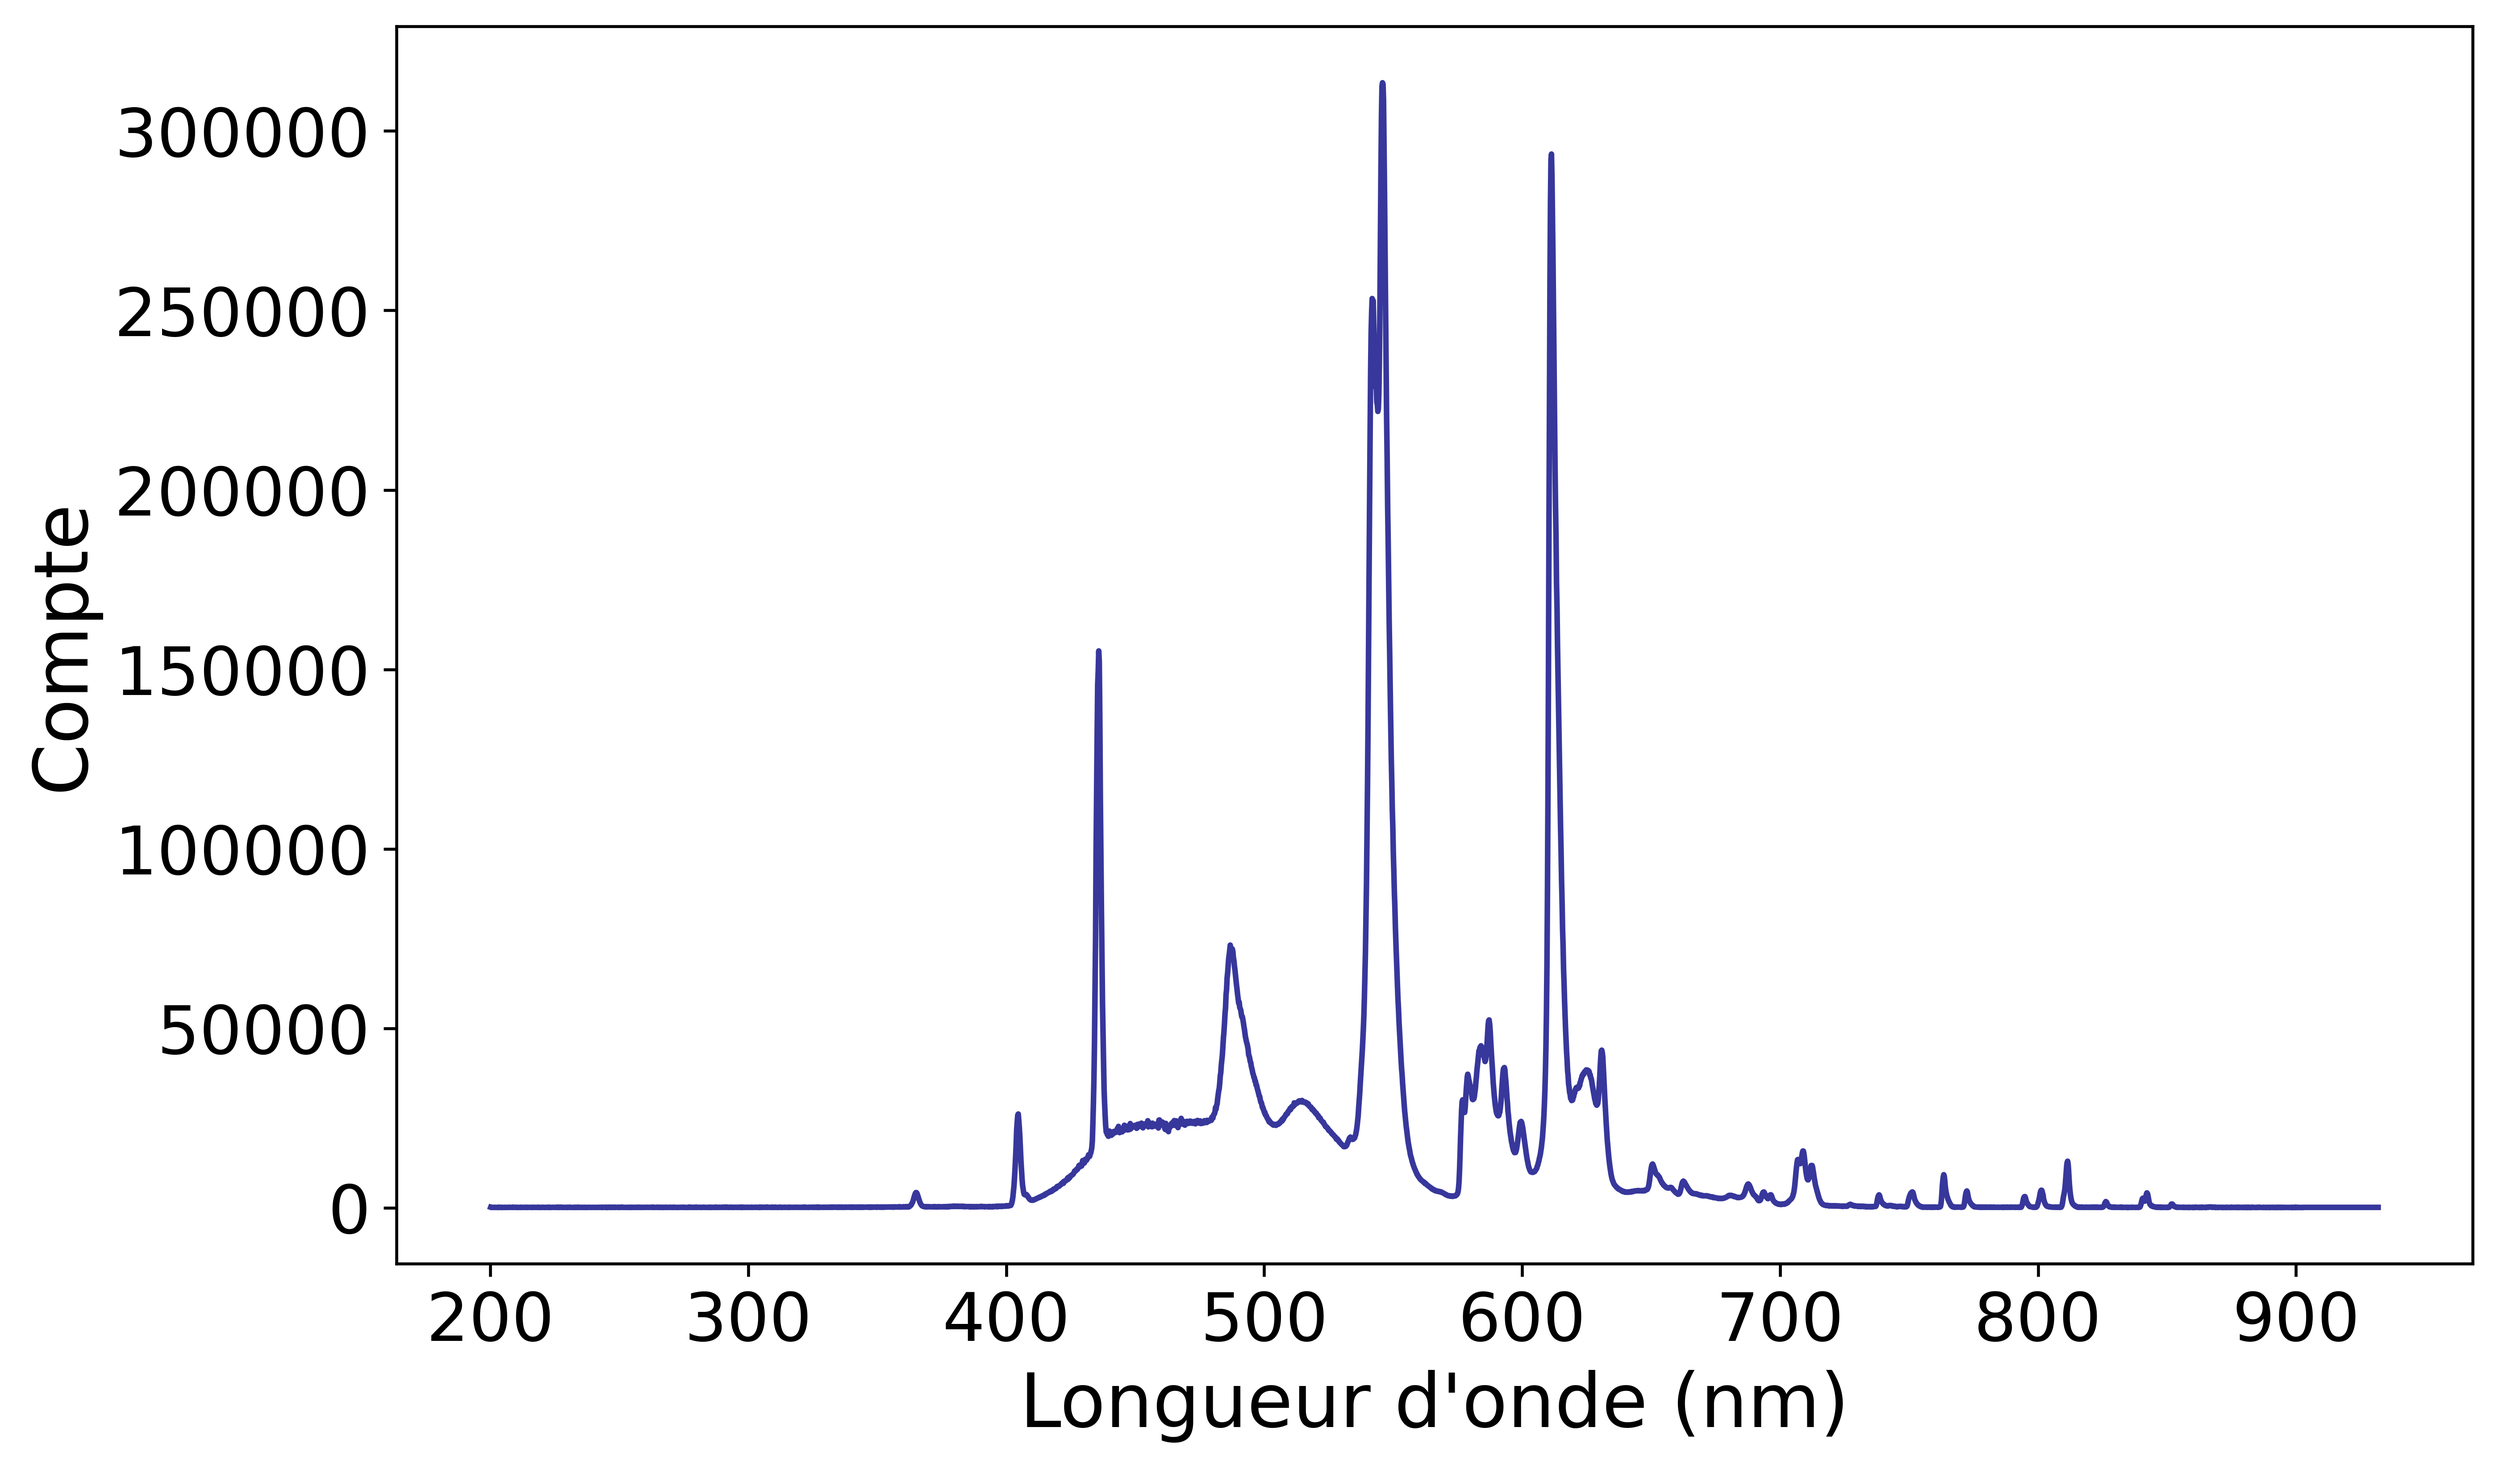
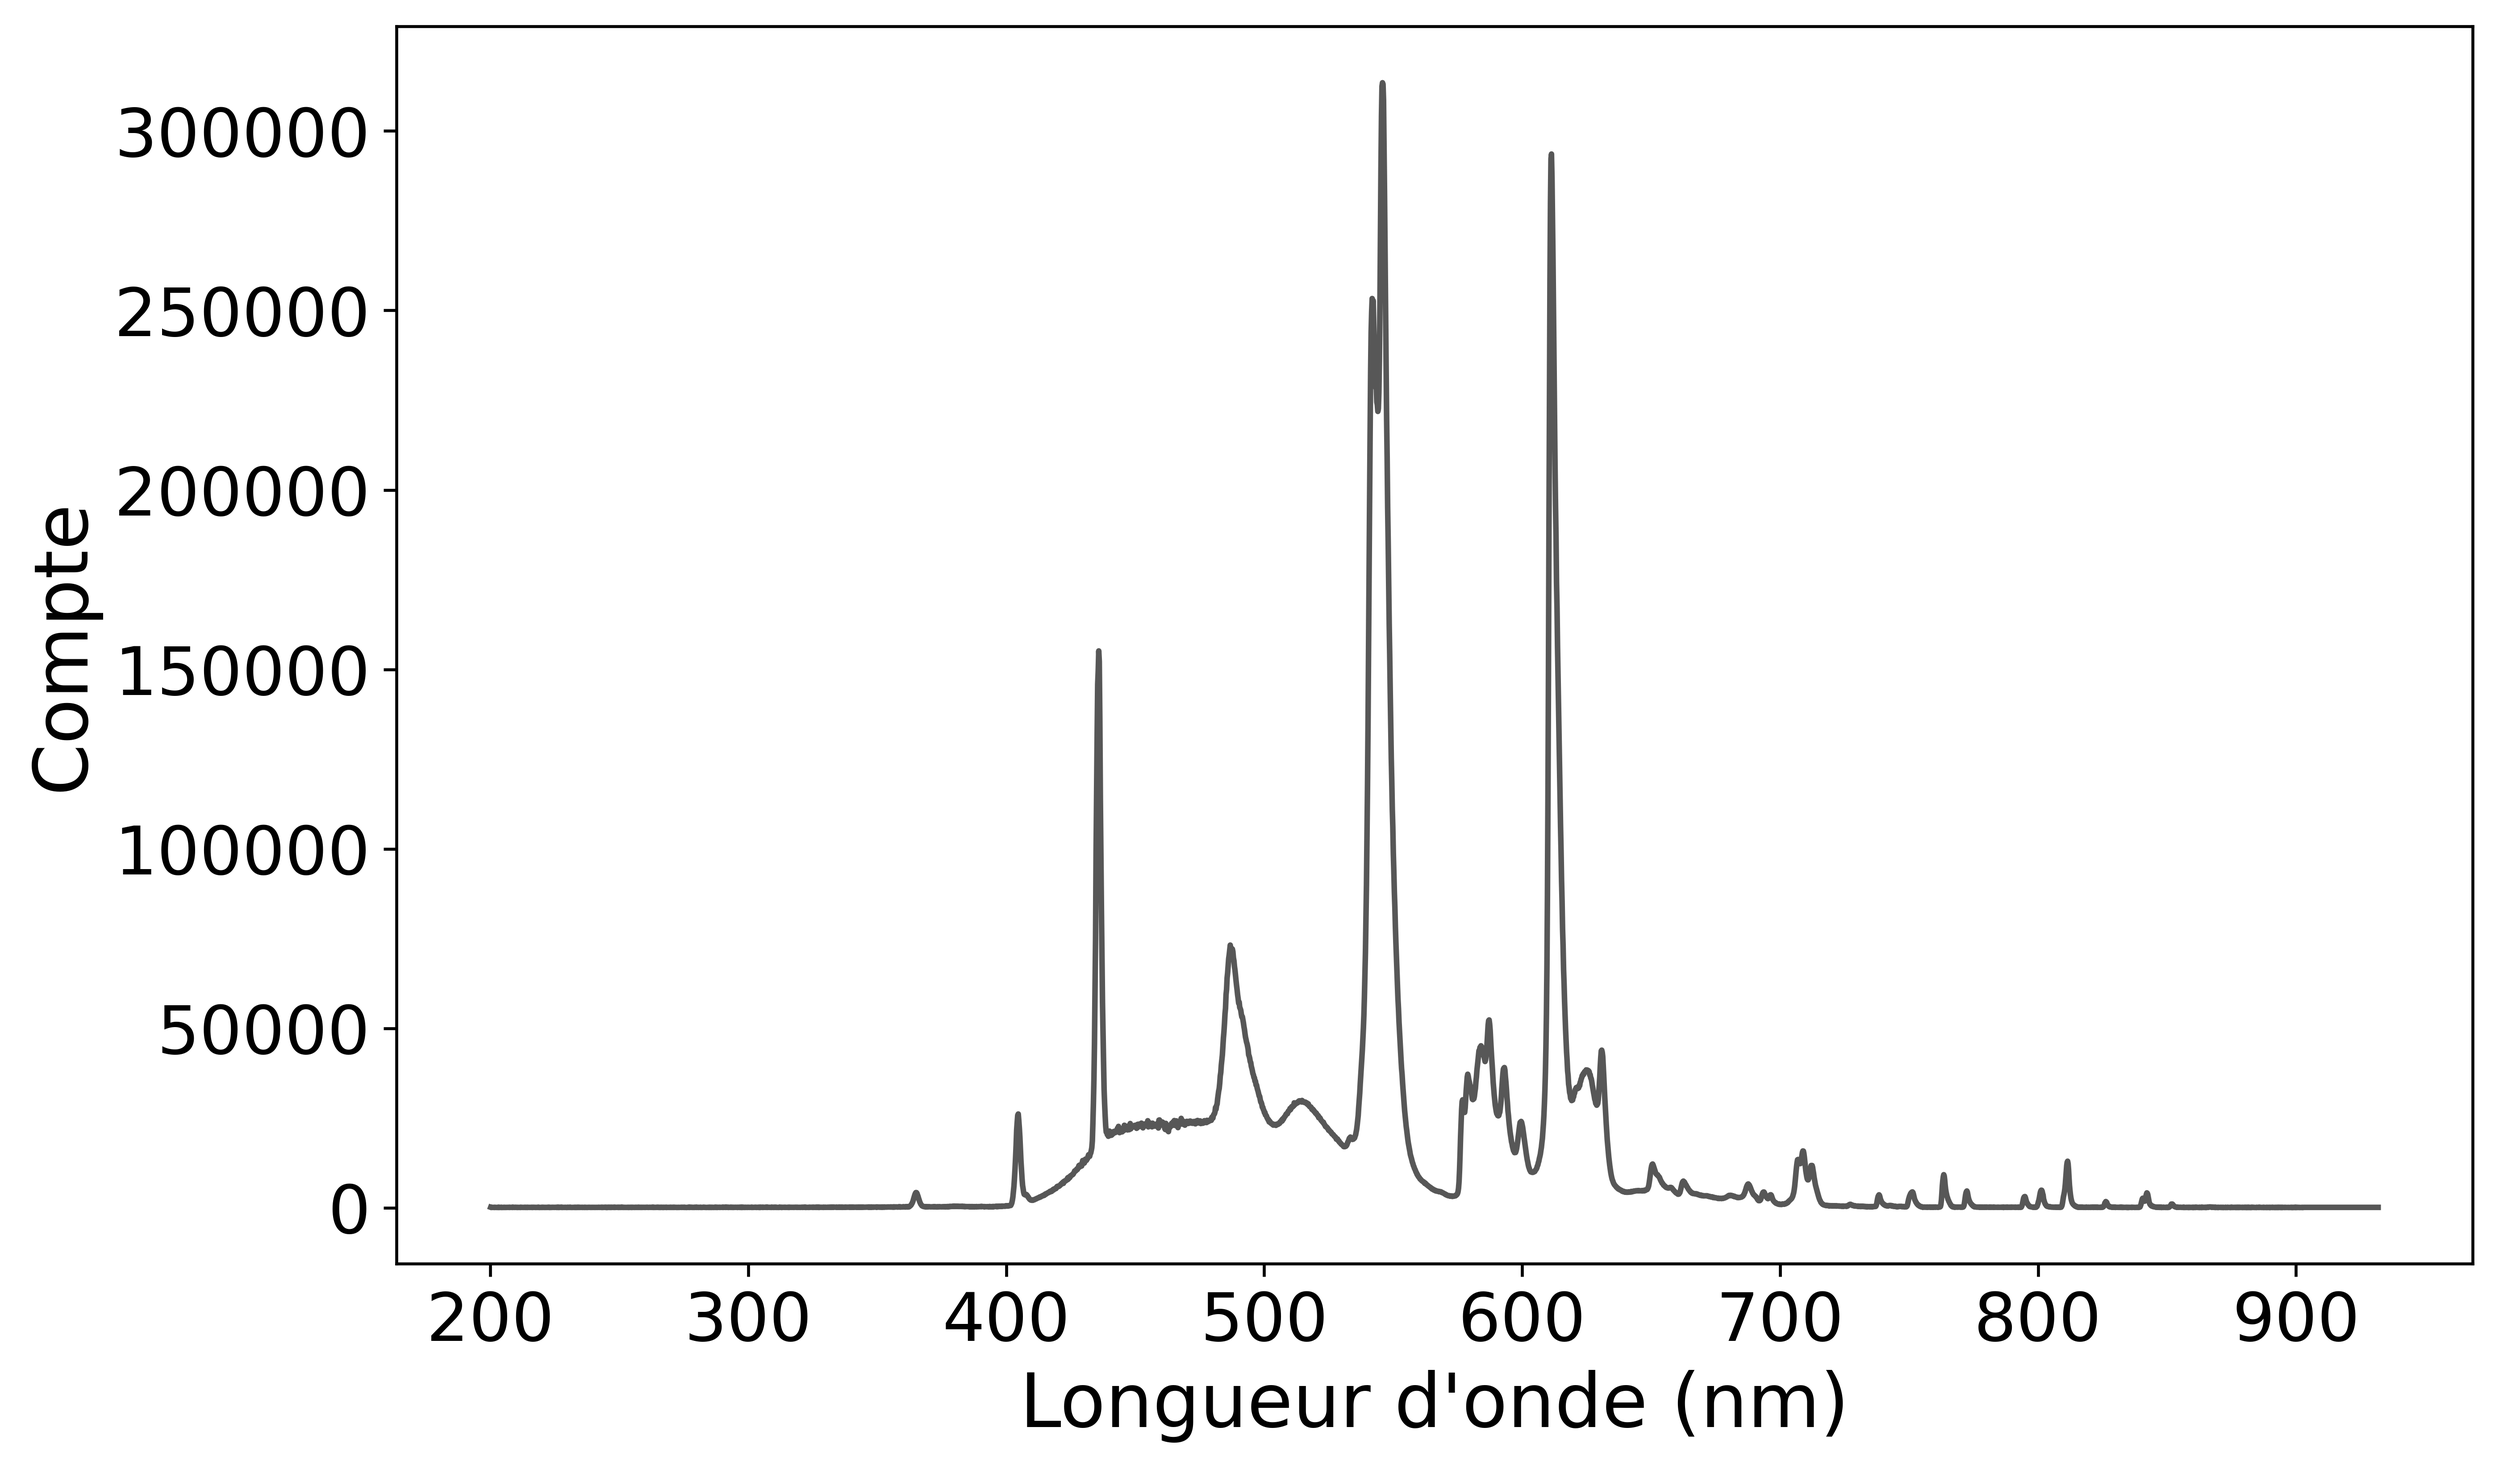
modifs couleurs

diff --git a/Projet_1/intensité_x_distance_r2.py b/Projet_1/intensité_x_distance_r2.py
@@ -1,0 +1,79 @@
+import numpy as np
+import matplotlib.pyplot as plt
+import os
+import pandas as pd
+from scipy.optimize import curve_fit
+
+#lampe 1 : MN
+#lampe 2 : MEN
+#lampe 3 : AC
+#lampe 4 : AT
+
+dossier_script = os.path.dirname(os.path.abspath(__file__))
+fichier_csv = os.path.join(dossier_script, "Projet 1.xlsx")
+
+spectre = pd.read_excel(fichier_csv, sheet_name="Obj2", skiprows=1)
+
+# Conversion en mètres pour que a / x**2 soit dans des ordres de grandeur cohérents
+x = spectre["Distance (cm)"].to_numpy() / 100
+
+y1 = spectre["AT"].to_numpy()
+y2 = spectre["AC"].to_numpy()
+y3 = spectre["MEN"].to_numpy()
+y4 = spectre["MN"].to_numpy()
+
+# Exclure le premier point x=0 (division par zéro dans le modèle)
+masque = x > 0
+x = x[masque]
+y1 = y1[masque]
+y2 = y2[masque]
+y3 = y3[masque]
+y4 = y4[masque]
+
+def modele(x, a):
+    return a / x**2
+
+def p0_initial(x, y):
+    a0 = y[0] * x[0]**2
+    return [a0]
+
+def r2(y, y_pred):
+    ss_res = np.sum((y - y_pred) ** 2)
+    ss_tot = np.sum((y - np.mean(y)) ** 2)
+    return 1 - ss_res / ss_tot
+
+x_fit = np.linspace(x.min(), x.max(), 300)
+
+params1, _ = curve_fit(modele, x, y1, p0=p0_initial(x, y1), maxfev=5000)
+params2, _ = curve_fit(modele, x, y2, p0=p0_initial(x, y2), maxfev=5000)
+params3, _ = curve_fit(modele, x, y3, p0=p0_initial(x, y3), maxfev=5000)
+params4, _ = curve_fit(modele, x, y4, p0=p0_initial(x, y4), maxfev=5000)
+
+y1_fit = modele(x_fit, *params1)
+y2_fit = modele(x_fit, *params2)
+y3_fit = modele(x_fit, *params3)
+y4_fit = modele(x_fit, *params4)
+
+print(f"AT  (4) : I(x) = {params1[0]:.4f} / x²  |  R² = {r2(y1, modele(x, *params1)):.4f}")
+print(f"AC  (3) : I(x) = {params2[0]:.4f} / x²  |  R² = {r2(y2, modele(x, *params2)):.4f}")
+print(f"MEN (2) : I(x) = {params3[0]:.4f} / x²  |  R² = {r2(y3, modele(x, *params3)):.4f}")
+print(f"MN  (1) : I(x) = {params4[0]:.4f} / x²  |  R² = {r2(y4, modele(x, *params4)):.4f}")
+
+plt.figure(figsize=(10, 6))
+plt.plot(x * 100, y4, label="Lampe 1", linestyle='', marker='d', markersize=4, color="#FFA500")
+plt.plot(x * 100, y3, label="Lampe 2", linestyle='', marker='^', markersize=4, color="#008000")
+plt.plot(x * 100, y2, label="Lampe 3", linestyle='', marker='s', markersize=4, color="#007980")
+plt.plot(x * 100, y1, label="Lampe 4", linestyle='', marker='o', markersize=4, color="#800080")
+
+plt.plot(x_fit * 100, y1_fit, linestyle='-', color="#800080", alpha=0.6, label="Lampe 4")
+plt.plot(x_fit * 100, y2_fit, linestyle='-', color="#007980", alpha=0.6, label="Lampe 3")
+plt.plot(x_fit * 100, y3_fit, linestyle='-', color="#008000", alpha=0.6, label="Lampe 2")
+plt.plot(x_fit * 100, y4_fit, linestyle='-', color="#FFA500", alpha=0.6, label="Lampe 1")
+
+plt.xlabel("Distance (cm)", fontsize=20)
+plt.ylabel("Intensité (lux)", fontsize=20)
+plt.xticks(fontsize=18)
+plt.yticks(fontsize=18)
+plt.legend(fontsize=20)
+#plt.savefig("intensite_x_distance.png", bbox_inches='tight', dpi=600)
+plt.show()

diff --git a/Projet_1/intensite_x_distance.py b/Projet_1/intensite_x_distance.py
@@ -10,6 +10,11 @@ from scipy.optimize import curve_fit
 #lampe 4 : AT
 
 
+lampe_1 ="#B0B0B0"
+lampe_2 = "#727272"
+lampe_3 = "#313131"
+lampe_4 = "#000000"
+
 dossier_script = os.path.dirname(os.path.abspath(__file__))
 fichier_csv = os.path.join(dossier_script, "Projet 1.xlsx")
 
@@ -47,24 +52,24 @@ y2_fit = modele(x_fit, *params2)
 y3_fit = modele(x_fit, *params3)
 y4_fit = modele(x_fit, *params4)
 
-print(f"AT  (4) : I(x) = {params1[0]:.4f} * exp({params1[1]:.4f} * x)  |  R² = {r2(y1, modele(x, *params1)):.4f}")
-print(f"AC  (3) : I(x) = {params2[0]:.4f} * exp({params2[1]:.4f} * x)  |  R² = {r2(y2, modele(x, *params2)):.4f}")
-print(f"MEN (2) : I(x) = {params3[0]:.4f} * exp({params3[1]:.4f} * x)  |  R² = {r2(y3, modele(x, *params3)):.4f}")
-print(f"MN  (1) : I(x) = {params4[0]:.4f} * exp({params4[1]:.4f} * x)  |  R² = {r2(y4, modele(x, *params4)):.4f}")
+print(f"AT  (4): I(x) = {params1[0]:.4f} * exp({params1[1]:.4f} * x)  |  R² = {r2(y1, modele(x, *params1)):.4f}")
+print(f"AC  (3): I(x) = {params2[0]:.4f} * exp({params2[1]:.4f} * x)  |  R² = {r2(y2, modele(x, *params2)):.4f}")
+print(f"MEN (2): I(x) = {params3[0]:.4f} * exp({params3[1]:.4f} * x)  |  R² = {r2(y3, modele(x, *params3)):.4f}")
+print(f"MN  (1): I(x) = {params4[0]:.4f} * exp({params4[1]:.4f} * x)  |  R² = {r2(y4, modele(x, *params4)):.4f}")
 
 plt.figure(figsize=(10, 6))
-plt.plot(x, y4, label="Lampe 1", linestyle='', marker='d', markersize=4, color="#FFA500")
-plt.plot(x, y3, label="Lampe 2", linestyle='', marker='^', markersize=4, color="#008000")
-plt.plot(x, y2, label="Lampe 3", linestyle='', marker='s', markersize=4, color="#007980")
-plt.plot(x, y1, label="Lampe 4", linestyle='', marker='o', markersize=4, color="#800080")
+plt.plot(x, y4, label="Lampe 1", linestyle='', marker='^', markersize=4, color=lampe_1)
+plt.plot(x, y3, label="Lampe 2", linestyle='', marker='^', markersize=4, color=lampe_2, markerfacecolor='none')
+plt.plot(x, y2, label="Lampe 3", linestyle='', marker='o', markersize=4, color=lampe_3)
+plt.plot(x, y1, label="Lampe 4", linestyle='', marker='o', markersize=4, color=lampe_4, markerfacecolor='none')
 
-plt.plot(x_fit, y1_fit, linestyle='-', color="#800080", alpha=0.6)
-plt.plot(x_fit, y2_fit, linestyle='-', color="#007980", alpha=0.6)
-plt.plot(x_fit, y3_fit, linestyle='-', color="#008000", alpha=0.6)
-plt.plot(x_fit, y4_fit, linestyle='-', color="#FFA500", alpha=0.6)
+plt.plot(x_fit, y4_fit, linestyle='-', color=lampe_1)
+plt.plot(x_fit, y3_fit, linestyle='-', color=lampe_2)
+plt.plot(x_fit, y2_fit, linestyle='-', color=lampe_3)  
+plt.plot(x_fit, y1_fit, linestyle='-', color=lampe_4)
 
 plt.xlabel("Distance (cm)", fontsize=20)
-plt.ylabel("Intensité (lux)", fontsize=20)
+plt.ylabel("Éclairement (lux)", fontsize=20)
 plt.xticks(fontsize=18)
 plt.yticks(fontsize=18)
 plt.legend(fontsize=20)

diff --git a/Projet_1/Comparaison_soleil_spectre.py b/Projet_1/Comparaison_soleil_spectre.py
@@ -5,37 +5,42 @@ import pandas as pd
 
 dossier_script = os.path.dirname(os.path.abspath(__file__))
 
-# --- Chargement du spectre solaire ---
+
+# charger spectre solaire
 fichier_xlsx = os.path.join(dossier_script, "Projet 1.xlsx")
 spectre_solaire = pd.read_excel(fichier_xlsx, sheet_name="Spectre", skiprows=0)
 x_soleil = spectre_solaire["Wavelength"].to_numpy()
 y_soleil = spectre_solaire["Spectral irradiance"].to_numpy()
 
-# --- Chargement du spectre de la lampe ---
+# charger spectre lampe
 fichier_csv = os.path.join(dossier_script, "spectre_at_bleu.csv")
 spectre = pd.read_csv(fichier_csv)
 x_lampe = spectre["lambda"].to_numpy()
 y_lampe = np.sum([spectre[str(i)].to_numpy() for i in range(1, 11)], axis=0)
 
-# --- Graphique ---
+# normalisation spectres
+y_soleil_norm = y_soleil / np.max(y_soleil)
+y_lampe_norm = y_lampe / np.max(y_lampe)
+
+# graphique
 fig, ax1 = plt.subplots(figsize=(10, 6))
 
-# Axe gauche : comptes (lampe)
-color_lampe = "#37379C"
-ax1.plot(x_lampe, y_lampe, color=color_lampe, label="Lampe (comptes)")
+# axe compte
+couleur_lampe = "#696969"
+ax1.plot(x_lampe, y_lampe_norm, color=couleur_lampe, label="Intensité de la lampe")
 ax1.set_xlabel("Longueur d'onde (nm)", fontsize=20)
-ax1.set_ylabel("Compte", fontsize=20, color=color_lampe)
-ax1.tick_params(axis='y', labelcolor=color_lampe, labelsize=18)
+ax1.set_ylabel("Intensité normalisée", fontsize=20, color=couleur_lampe)
+ax1.tick_params(axis='y', labelcolor=couleur_lampe, labelsize=18)
 ax1.tick_params(axis='x', labelsize=18)
 
-# Axe droit : irradiance (soleil)
-color_soleil = "#FFA500"
+# axe irradiance
+couleur_soleil = "#121212"
 ax2 = ax1.twinx()
-ax2.plot(x_soleil, y_soleil, color=color_soleil, label="Spectre solaire (irradiance)")
-ax2.set_ylabel("Irradiance (W/m²/nm)", fontsize=20, color=color_soleil)
-ax2.tick_params(axis='y', labelcolor=color_soleil, labelsize=18)
+ax2.plot(x_soleil, y_soleil_norm, color=couleur_soleil, label="Irradiance solaire")
+ax2.set_ylabel("Irradiance normalisée", fontsize=20, color=couleur_soleil)
+ax2.tick_params(axis='y', labelcolor=couleur_soleil, labelsize=18)
 
-# Légende combinée
+# légende
 lines1, labels1 = ax1.get_legend_handles_labels()
 lines2, labels2 = ax2.get_legend_handles_labels()
 ax1.legend(lines1 + lines2, labels1 + labels2, fontsize=14)

diff --git a/Projet_1/comparaison_spectres.py b/Projet_1/comparaison_spectres.py
@@ -11,6 +11,10 @@ import pandas as pd
 #aller chercher fichier
 dossier_script = os.path.dirname(os.path.abspath(__file__))
 
+lampe_1 ="#B0B0B0"
+lampe_2 = "#575757"
+lampe_3 = "#3E3E3E"
+lampe_4 = "#000000"
 
 #spectre 1 lampe alex bleu
 fichier_csv_atbleu = os.path.join(dossier_script, "spectre_at_bleu.csv")
@@ -125,16 +129,16 @@ y_ac = np.sum([y1_ac, y2_ac, y3_ac, y4_ac, y5_ac, y6_ac, y7_ac, y8_ac, y9_ac, y1
 x = spectre_men["lambda"].to_numpy()
 
 plt.figure(figsize=(10, 6))
-#plt.plot(x, y_mn, label="Lampe 1", linestyle='-', color="#609160")
-#plt.plot(x, y_men, label="Lampe 2", linestyle='-', color='#FFA500')
-#plt.plot(x, y_ac, label="Lampe 3", linestyle='-', color='#800080')
-plt.plot(x, y_atbleu, label="Lampe 4.1", linestyle='-', color="#33333F")
-plt.plot(x, y_atblanc, label="Lampe 4.2", linestyle='-', color="#09DEE9")
-plt.plot(x, y_atrouge, label="Lampe 4.3", linestyle='-', color="#AC4F4F")
+#plt.plot(x, y_mn, label="Lampe 1", linestyle='-', color=lampe_1)
+plt.plot(x, y_men, label="Lampe 2", linestyle='-', color=lampe_2)
+#plt.plot(x, y_ac, label="Lampe 3", linestyle='-', color=lampe_3)
+#plt.plot(x, y_atbleu, label="Lampe 4", linestyle='-', color=lampe_4)
+#plt.plot(x, y_atblanc, label="Lampe 4.2", linestyle='-', color="#09DEE9")
+#plt.plot(x, y_atrouge, label="Lampe 4.3", linestyle='-', color="#AC4F4F")
 plt.xlabel("Longueur d'onde (nm)", fontsize=20)
 plt.ylabel("Compte", fontsize=20)
 plt.xticks(fontsize=18)
 plt.yticks(fontsize=18)
 plt.legend(fontsize=20)
-plt.savefig("spectres_comparaison_at.png", bbox_inches='tight', dpi=600)
+plt.savefig("spectres_comparaison_2.png", bbox_inches='tight', dpi=600)
 plt.show()

diff --git a/Projet_1/additions_spectres_individuels.py b/Projet_1/additions_spectres_individuels.py
@@ -8,8 +8,13 @@ import pandas as pd
 #lampe 3 : AC
 #lampe 4 : AT
 
+lampe_1 ="#B0B0B0"
+lampe_2 = "#575757"
+lampe_3 = "#3E3E3E"
+lampe_4 = "#000000"
+
 dossier_script = os.path.dirname(os.path.abspath(__file__))
-fichier_csv = os.path.join(dossier_script, "spectre_at_bleu.csv")
+fichier_csv = os.path.join(dossier_script, "spectre_men.csv")
 duree_exposition = (5 *10) #mili secondes
 
 spectre = pd.read_csv(fichier_csv)
@@ -31,10 +36,10 @@ y = np.sum([y1, y2, y3, y4, y5, y6, y7, y8, y9, y10], axis=0)
 
 
 plt.figure(figsize=(10, 6))
-plt.plot(x, y, label="Spectre total", color="#37379C")
+plt.plot(x, y, label="Spectre total", color=lampe_2)
 plt.xlabel("Longueur d'onde (nm)", fontsize=20)
 plt.ylabel("Compte", fontsize=20)
 plt.xticks(fontsize=18)
 plt.yticks(fontsize=18)
-plt.savefig("spectres_individuels4.png", bbox_inches='tight', dpi=600)
+plt.savefig("spectres_individuels2.png", bbox_inches='tight', dpi=600)
 plt.show()

diff --git a/Projet_1/intensite_x_temps.py b/Projet_1/intensite_x_temps.py
@@ -64,5 +64,5 @@ plt.yticks(fontsize=18)
 plt.xlabel("Temps (minutes)", fontsize=20)
 plt.ylabel("Intensité (lux)", fontsize=20)
 plt.legend(fontsize=20)
-plt.savefig("intensite_x_temps.png", bbox_inches='tight', dpi=600)
+#plt.savefig("intensite_x_temps.png", bbox_inches='tight', dpi=600)
 plt.show()
